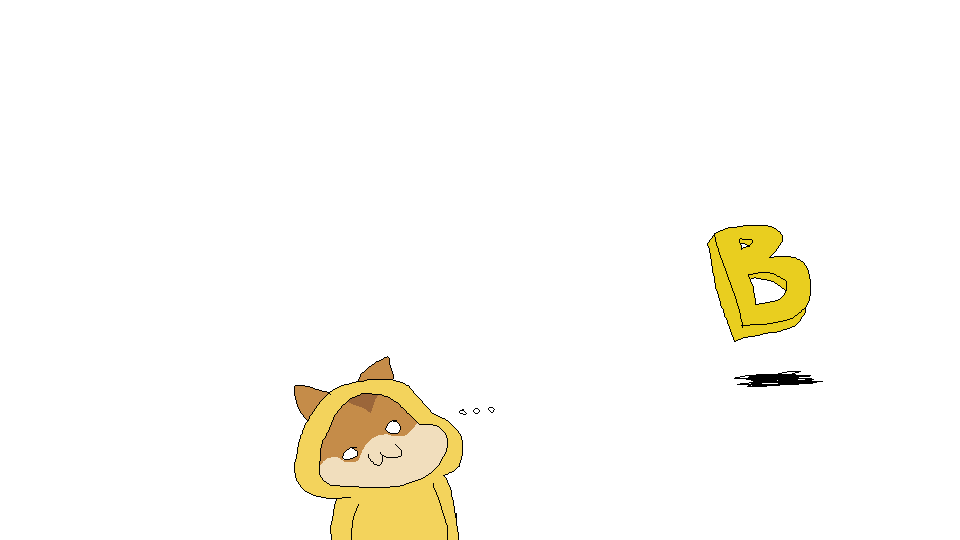
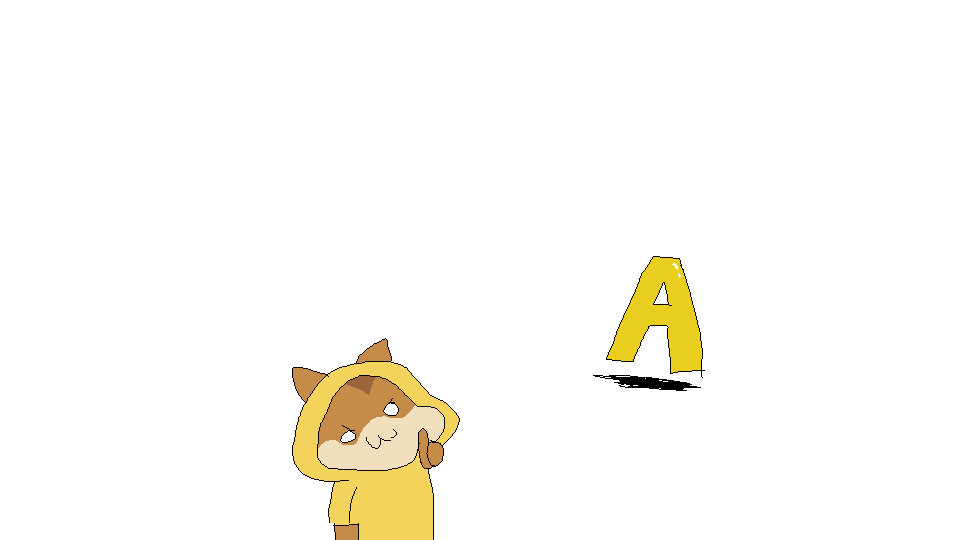
Support bigcollect 1, 2, 3 with animations and restrict spawn to types 1~3

Changed region(s): [[0.2812, 0.6222, 0.5, 1.0], [0.625, 0.4148, 0.8438, 0.7407], [0.7812, 0.6815, 0.8438, 0.7407]]

diff --git a/src/entities.js b/src/entities.js
@@ -2375,34 +2375,120 @@ class Collect extends Entity {
 }
 
 class BigCollect extends Collect {
-    constructor(x, y, w = 64, h = 64, flipX = false, flipY = false) {
-        super(x, y, w, h, flipX, flipY);
+    static sprites = {};
+    static imagesLoaded = false;
+
+    static initImages() {
+        if (BigCollect.imagesLoaded) return;
+        BigCollect.sprites = { 1: [], 2: [], 3: [] };
+
+        // 큰 과일 수집품(BigCollect) 프레임 수: 1=8, 2=13, 3=17
+        const KNOWN_COUNTS = { 1: 8, 2: 13, 3: 17 };
+
+        for (let c = 1; c <= 3; c++) {
+            BigCollect.sprites[c] = [];
+            const count = KNOWN_COUNTS[c] || 0;
+            if (count > 0) {
+                for (let i = 0; i < count; i++) {
+                    const img = new Image();
+                    img.src = `이미지/spr_bigcollect${c}/spr_bigcollect${c}_${i}.png`;
+                    BigCollect.sprites[c].push(img);
+                }
+            } else {
+                // 향후 추가될 BigCollect 4, 5 동적 탐색
+                const firstImg = new Image();
+                firstImg.onload = () => {
+                    BigCollect.sprites[c] = [firstImg];
+                    const loadNext = (idx) => {
+                        if (idx >= 32) return;
+                        const nextImg = new Image();
+                        nextImg.onload = () => {
+                            BigCollect.sprites[c].push(nextImg);
+                            loadNext(idx + 1);
+                        };
+                        nextImg.src = `이미지/spr_bigcollect${c}/spr_bigcollect${c}_${idx}.png`;
+                    };
+                    loadNext(1);
+                };
+                firstImg.src = `이미지/spr_bigcollect${c}/spr_bigcollect${c}_0.png`;
+            }
+        }
+
+        BigCollect.imagesLoaded = true;
+    }
+
+    constructor(x, y, w = 64, h = 64, flipX = false, flipY = false, collectType = null) {
+        // BigCollect: 1, 2, 3 중 랜덤 생성 (파라미터 전달 시 해당 타입 사용)
+        const chosenType = collectType || (Math.floor(Math.random() * 3) + 1);
+        super(x, y, w, h, flipX, flipY, chosenType);
         this.type = 'obj_bigcollect';
         this.points = 100;
         this.fontSize = 24;
+
+        this.collectType = chosenType;
+        const frameMap = { 1: 8, 2: 13, 3: 17 };
+        const maxF = frameMap[this.collectType] || 8;
+        this.image_index = Math.random() * maxF;
+        this.image_speed = 0.35;
+        BigCollect.initImages();
     }
 
     render(ctx) {
         if (this.markedForDeletion) return;
         const isEditor = (window.gameInstance && window.gameInstance.isEditorMode) || (window.game && window.game.isEditorMode);
         if (this.isCollected && !isEditor) return;
-        ctx.fillStyle = '#f1c40f';
-        ctx.beginPath();
-        ctx.arc(this.x + this.width / 2, this.y + this.height / 2, this.width / 2 - 4, 0, Math.PI * 2);
-        ctx.fill();
-        ctx.strokeStyle = '#f39c12';
-        ctx.lineWidth = 2;
-        ctx.stroke();
-        
-        ctx.fillStyle = '#ffffff';
-        ctx.font = 'bold ' + this.fontSize + 'px Arial';
-        ctx.textAlign = 'center';
-        ctx.textBaseline = 'middle';
-        ctx.fillText(this.points.toString(), this.x + this.width / 2, this.y + this.height / 2);
+
+        const typeKey = this.collectType || 1;
+        let frames = (BigCollect.sprites && BigCollect.sprites[typeKey] && BigCollect.sprites[typeKey].length > 0)
+            ? BigCollect.sprites[typeKey]
+            : null;
+
+        if (!frames || frames.length === 0) {
+            frames = (BigCollect.sprites && BigCollect.sprites[1]);
+        }
+
+        const numFrames = (frames && frames.length > 0) ? frames.length : 8;
+        const frameIdx = Math.floor(this.image_index) % numFrames;
+        let img = (frames && frames[frameIdx] && frames[frameIdx].complete && frames[frameIdx].naturalWidth > 0)
+            ? frames[frameIdx]
+            : null;
+
+        if (!img && BigCollect.sprites) {
+            const fbFrames = (BigCollect.sprites[1] && BigCollect.sprites[1].length > 0) ? BigCollect.sprites[1] : (BigCollect.sprites[2] || []);
+            const fbIdx = Math.floor(this.image_index) % (fbFrames.length || 1);
+            if (fbFrames[fbIdx] && fbFrames[fbIdx].complete && fbFrames[fbIdx].naturalWidth > 0) {
+                img = fbFrames[fbIdx];
+            }
+        }
+
+        if (img) {
+            ctx.save();
+            const cx = this.x + this.width / 2;
+            const cy = this.y + this.height / 2;
+            // spr_bigcollect 프레임은 100x100 크기이며 중심이 (50, 50)에 위치
+            ctx.drawImage(img, cx - 50, cy - 50, 100, 100);
+            ctx.restore();
+        } else {
+            // 로딩 중 대체 원형 렌더링
+            ctx.fillStyle = '#f1c40f';
+            ctx.beginPath();
+            ctx.arc(this.x + this.width / 2, this.y + this.height / 2, this.width / 2 - 4, 0, Math.PI * 2);
+            ctx.fill();
+            ctx.strokeStyle = '#f39c12';
+            ctx.lineWidth = 2;
+            ctx.stroke();
+
+            ctx.fillStyle = '#ffffff';
+            ctx.font = 'bold ' + this.fontSize + 'px Arial';
+            ctx.textAlign = 'center';
+            ctx.textBaseline = 'middle';
+            ctx.fillText(this.points.toString(), this.x + this.width / 2, this.y + this.height / 2);
+        }
     }
 }
 
 Collect.initImages();
+BigCollect.initImages();
 
 if (typeof window !== 'undefined') {
     window.Collect = Collect;

diff --git a/src/game.js b/src/game.js
@@ -8381,9 +8381,14 @@ this.entities.push(
                     ctx.fillStyle = '#fff'; ctx.font = 'bold 12px Arial'; ctx.textAlign = 'center'; ctx.textBaseline = 'middle'; ctx.fillText('10', 16, 16);
                 }
             } else if (this.selectedType === 'obj_bigcollect') {
-                ctx.fillStyle = '#e67e22';
-                ctx.beginPath(); ctx.arc(32, 32, 24, 0, Math.PI * 2); ctx.fill();
-                ctx.fillStyle = '#fff'; ctx.font = 'bold 14px Arial'; ctx.textAlign = 'center'; ctx.textBaseline = 'middle'; ctx.fillText('100', 32, 32);
+                const img = typeof BigCollect !== 'undefined' && BigCollect.sprites && BigCollect.sprites[1] && BigCollect.sprites[1][0];
+                if (img && img.complete && img.naturalWidth > 0) {
+                    ctx.drawImage(img, 32 - 50, 32 - 50, 100, 100);
+                } else {
+                    ctx.fillStyle = '#e67e22';
+                    ctx.beginPath(); ctx.arc(32, 32, 24, 0, Math.PI * 2); ctx.fill();
+                    ctx.fillStyle = '#fff'; ctx.font = 'bold 14px Arial'; ctx.textAlign = 'center'; ctx.textBaseline = 'middle'; ctx.fillText('100', 32, 32);
+                }
             } else if (this.selectedType === 'oneway') {
                 ctx.fillStyle = 'rgba(255, 165, 0, 0.5)';
                 ctx.fillRect(0, 0, pw, ph);

diff --git a/room/demo_hub.js b/room/demo_hub.js
@@ -20,8 +20,6 @@ this.entities.push(
     new PaletteDresser(448, 384, 64, 64),
     new OnlineComputer(608, 384, 64, 64),
     new LevelGate(768, 160, 192, 288, "tutorial_1", "A", "0", "GATE 1", 0),
-    new LevelGate(1072, 181, 161, 267, "tutorial_1", "A", "0", "GATE 2", 1),
-    new LevelGate(1358, 194, 165, 254, "tutorial_1", "A", "0", "GATE 3", 2),
     new Tile(96, 448, 32, 32, 64, 96, 'tile_tutorial.png', 32, 32),
     new Tile(96, 480, 32, 32, 64, 128, 'tile_tutorial.png', 32, 32),
     new Tile(96, 512, 32, 32, 64, 160, 'tile_tutorial.png', 32, 32),
@@ -722,6 +720,7 @@ this.entities.push(
     new BigCollect(672, 192, 64, 64),
     new BigCollect(672, 224, 64, 64),
     new BigCollect(608, 224, 64, 64),
+    new LevelGate(1072, 181, 161, 267, "test_1", "A", "1", "GATE 2", 1),
 );
 
 };
